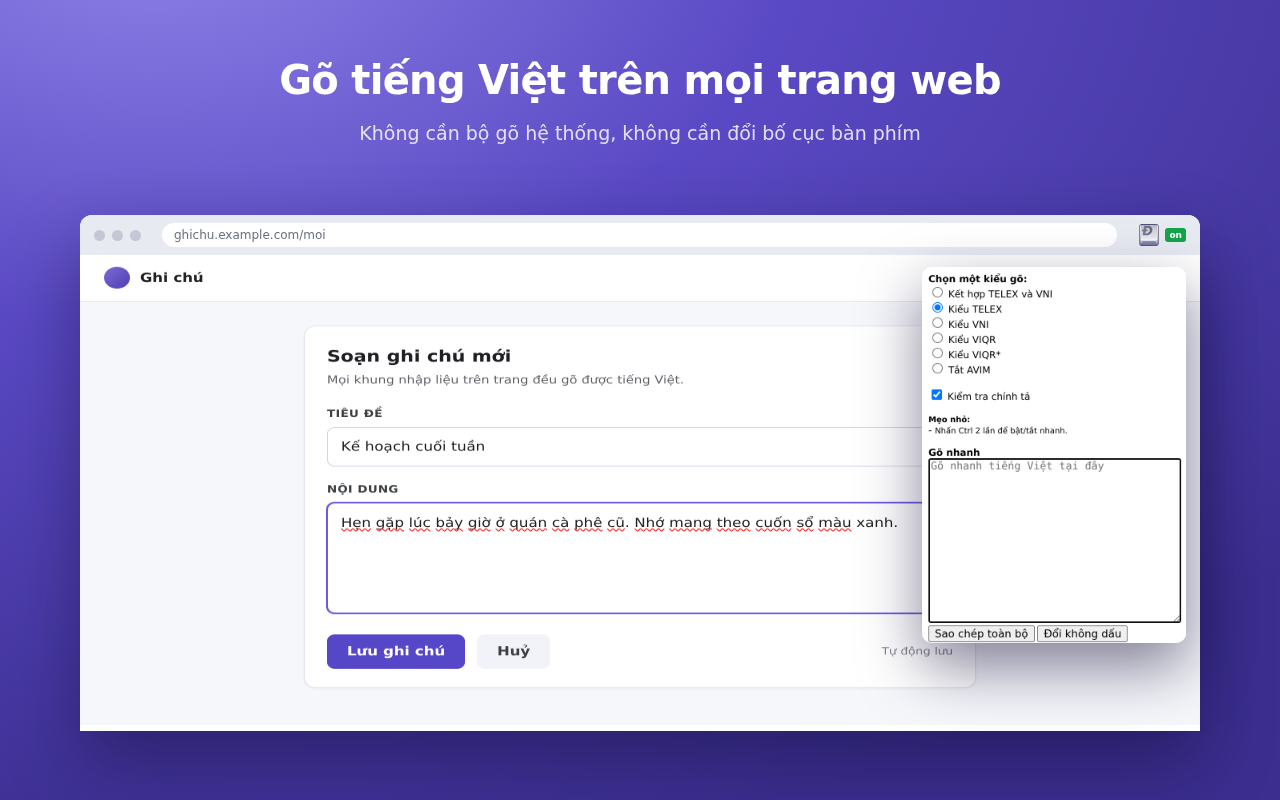
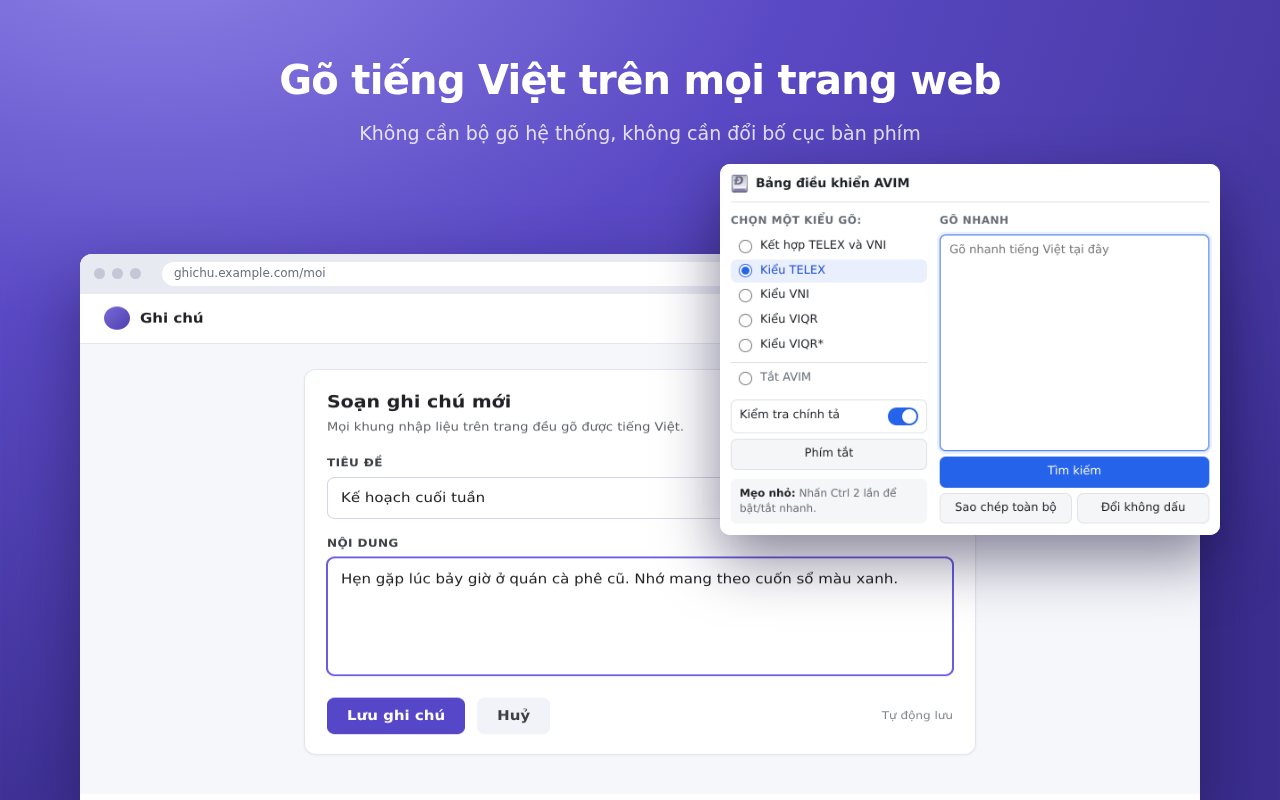
Refresh the store screenshots for the new popup

Changed region(s): [[0.0625, 0.1875, 0.9688, 1.0]]

diff --git a/CHANGELOG.md b/CHANGELOG.md
@@ -9,6 +9,10 @@ since `v0.8.3` is collected under 0.10.0.
 
 - Gõ được trong Google Docs ([#21](https://github.com/kimkha/avim-chrome/issues/21)).
 - Phím tắt do người dùng tự đặt trong popup: gõ `vn` rồi khoảng trắng ra `Việt Nam`. Mặc định tắt.
+- Nút **Tìm kiếm** trong ô gõ nhanh: mở tab mới và tìm bằng công cụ tìm kiếm mặc định, hoặc vào
+  thẳng địa chỉ nếu nội dung là một tên miền.
+- `Ctrl+Shift+V` mở popup (`Command+Shift+V` trên macOS). Đổi được ở `chrome://extensions/shortcuts`.
+- Nội dung ô gõ nhanh được giữ lại giữa các lần mở popup, và bôi đen sẵn khi mở để gõ đè ngay.
 
 ### Fixed
 
@@ -19,10 +23,26 @@ since `v0.8.3` is collected under 0.10.0.
 - Từ bị chia bởi thẻ inline nay biến đổi đúng, và không còn nối hai từ nằm hai bên một widget.
 - Gõ được vào input nằm trong shadow root.
 - Iframe xuất hiện sau khi trang tải giờ được bắt ngay, thay vì chờ tới 10 giây.
+- Nhấn Ctrl 2 lần khi popup đang mở: popup không đổi trạng thái theo, và ô gõ nhanh trong popup vẫn
+  gõ tiếng Việt dù AVIM đã tắt.
+- Nhấn Ctrl 2 lần bị tính sai sau một tổ hợp phím có Ctrl như `Ctrl+Shift+V`, làm AVIM tự tắt ngoài
+  ý muốn.
 
 ### Changed
 
 - Firefox tối thiểu nâng từ 109 lên 128, bản đầu hỗ trợ `world: "MAIN"` mà Google Docs cần.
+- Popup thiết kế lại: hai cột, theo dark mode của hệ thống, dùng font hệ thống, dựng bằng HTML có
+  nghĩa thay vì các thẻ `<br>`.
+- Bảng sửa phím tắt giờ là lớp phủ trên popup thay vì thay cả màn hình, nên vẫn thấy màn hình chính
+  phía sau.
+
+### Development
+
+- Suite test Firefox thật bằng geckodriver: nạp `dist/avim-firefox-*.zip` làm temporary add-on rồi
+  kiểm popup, `chrome.search.query`, phím tắt, engine và các tính năng CSS/DOM mà popup dựa vào.
+  Chạy bằng `yarn firefox:install` rồi `yarn test:firefox`; CI chạy cùng suite này.
+- `resource/store/make-screenshots.mjs` dựng lại screenshot cho popup mới. Nó đã hỏng im lặng từ khi
+  vòng quét iframe bị thay bằng `MutationObserver`, vì còn chờ một biến đếm không còn tồn tại.
 
 ## [0.10.2] - 2026-09-02
 
